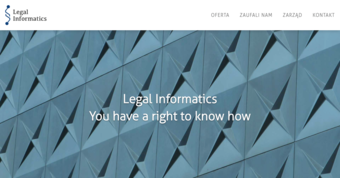
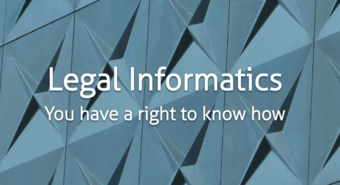
Replaces project imgages, increases project's  mt

diff --git a/src/components/projectsSection.js b/src/components/projectsSection.js
@@ -189,7 +189,7 @@ const StyledProject = styled.div`
 
   @media screen and (min-width: 640px) {
     width: 46.5%;
-    margin: 1.25em 0.6em 0;
+    margin: 2em 0.6em 0;
   }
 
   @media screen and (min-width: 960px) {
